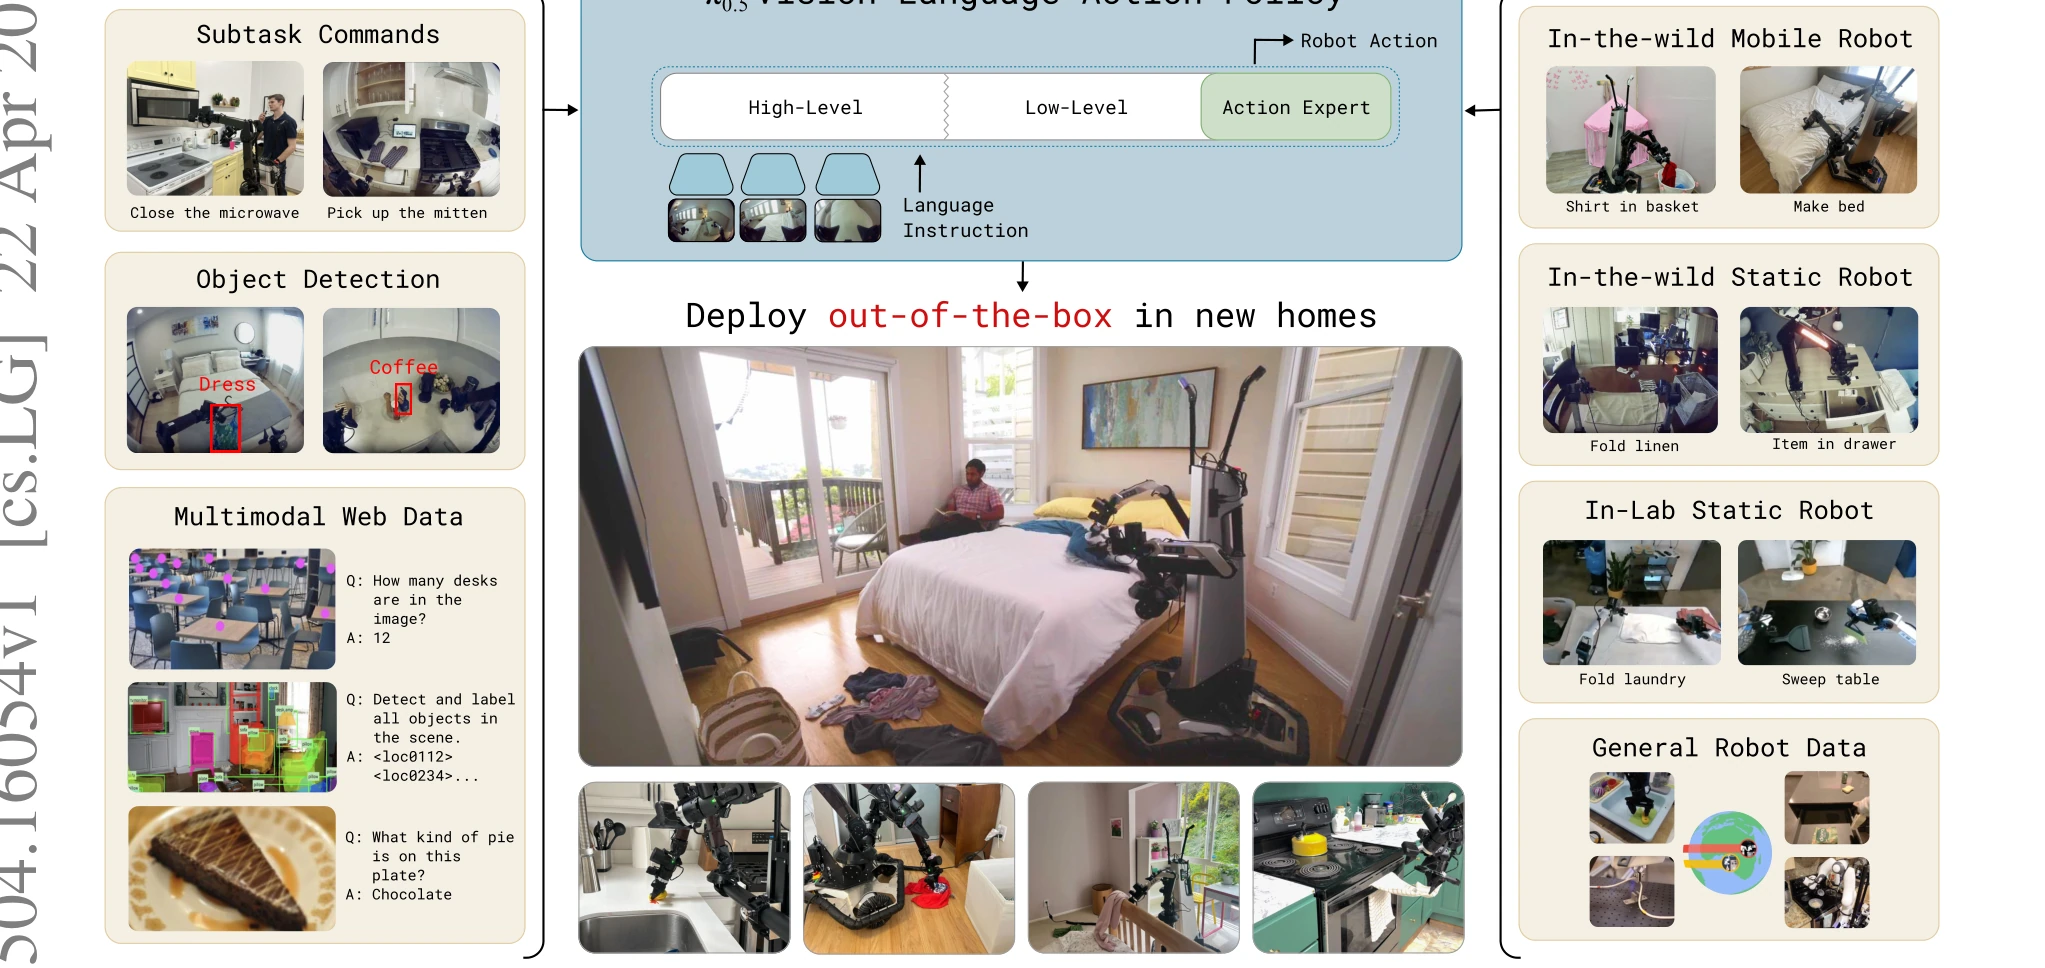
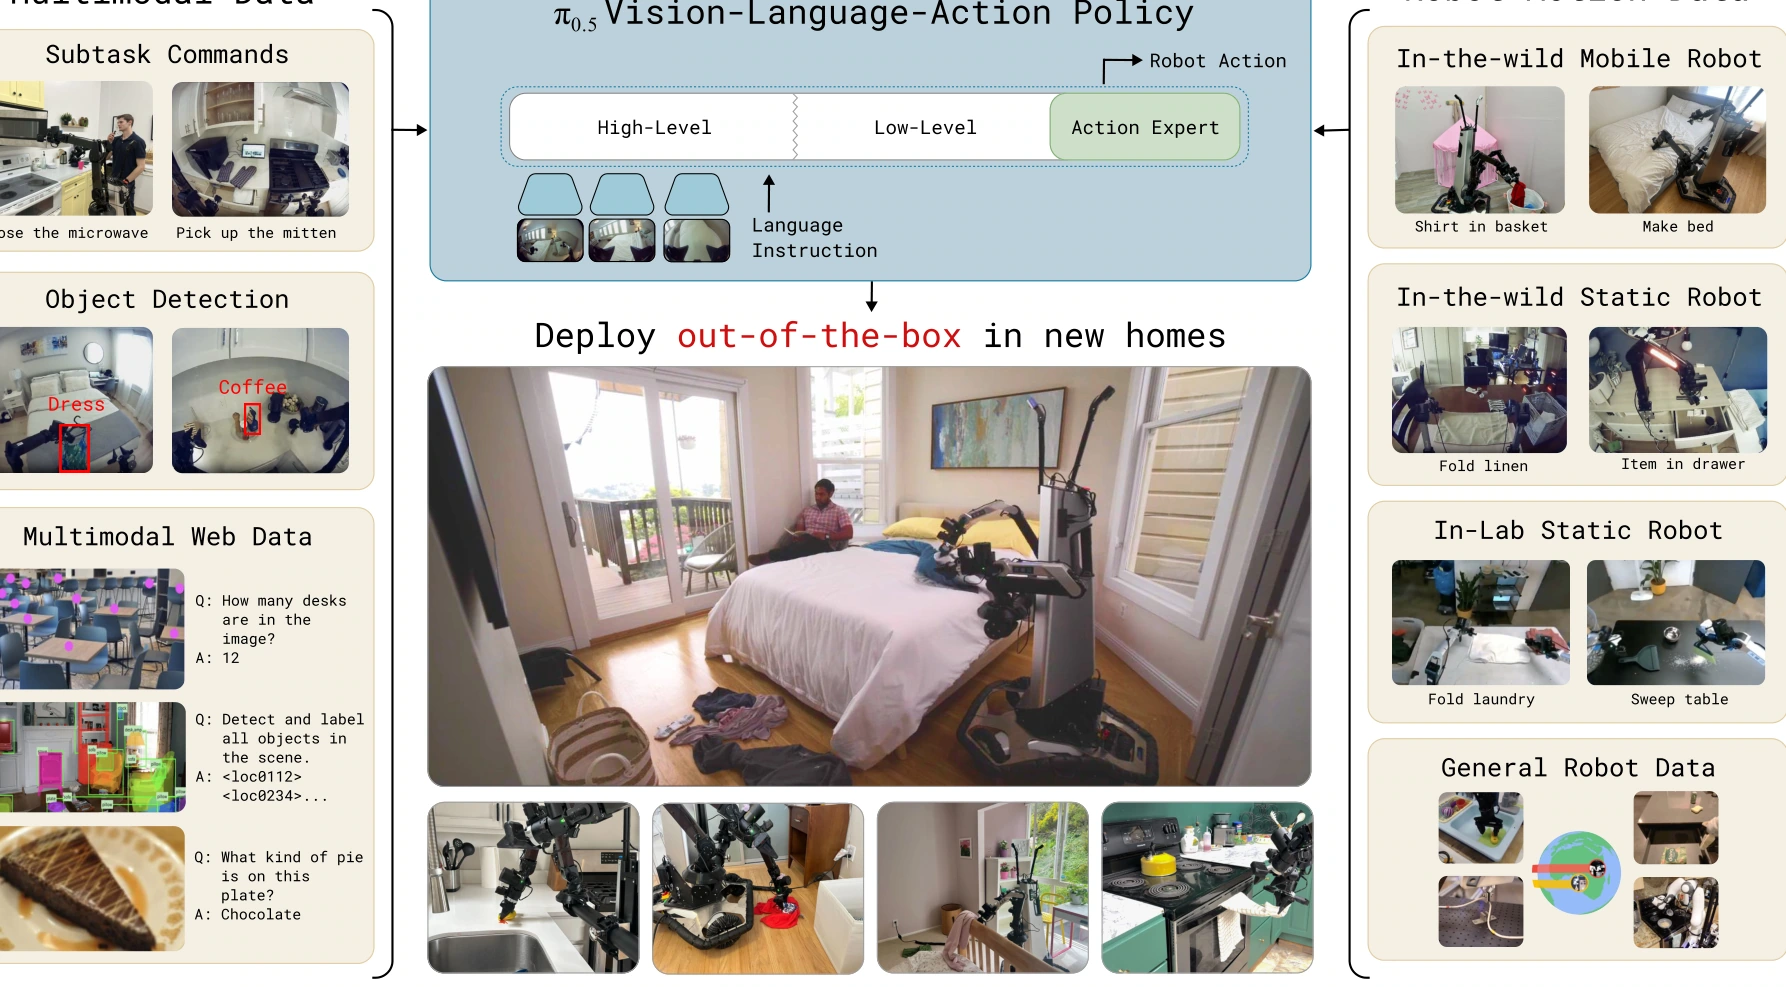
fix(figures): visually reviewed pi-0-5 original PDF figures

diff --git a/docs/figure-crop-manual-review/pi-0-5.md b/docs/figure-crop-manual-review/pi-0-5.md
@@ -1,0 +1,26 @@
+# Visually reviewed figure crops: pi-0-5
+
+Decision source: direct visual inspection of the original PDF pages.
+The script was used **only** to render manually selected coordinates.
+It never automatically expands, trims, or determines figure boundaries.
+
+Source: https://arxiv.org/pdf/2504.16054
+
+| Figure | Source page | Decision | Original coordinates | Approved coordinates | Visual reason |
+| --- | ---: | --- | --- | --- | --- |
+| 1 | 1 | Manually recut | 22, 230.7, 590, 499.4 | 64, 225, 560, 499 | Exclude arXiv margin and retain all task overview panels |
+| 2 | 2 | Inspected; source crop retained | 22, 32.4, 590, 147.4 | 22, 32.4, 590, 147.4 | Existing rectangle contains the whole figure in source preview. |
+| 3 | 4 | Manually recut | 22, 153.8, 590, 268.8 | 50, 68, 567, 269 | Recover model pre-training and post-training task and action labels |
+| 4 | 6 | Inspected; source crop retained | 22, 53, 590, 361.9 | 22, 53, 590, 361.9 | Existing rectangle contains the whole figure in source preview. |
+| 5 | 7 | Inspected; source crop retained | 311, 41, 591, 205.9 | 311, 41, 591, 205.9 | Existing rectangle contains the whole figure in source preview. |
+| 6 | 8 | Inspected; source crop retained | 22, 41, 590, 202.7 | 22, 41, 590, 202.7 | Existing rectangle contains the whole figure in source preview. |
+| 7 | 8 | Manually recut | 22, 270.9, 590, 410.5 | 45, 236, 574, 410 | Recover first evaluation task row plus all home success bar charts |
+| 8 | 9 | Inspected; source crop retained | 21, 41, 301, 209 | 21, 41, 301, 209 | Existing rectangle contains the whole figure in source preview. |
+| 9 | 9 | Inspected; source crop retained | 311, 41, 591, 166.6 | 311, 41, 591, 166.6 | Existing rectangle contains the whole figure in source preview. |
+| 10 | 10 | Inspected; source crop retained | 21, 41, 301, 186.9 | 21, 41, 301, 186.9 | Existing rectangle contains the whole figure in source preview. |
+| 11 | 10 | Inspected; source crop retained | 21, 269.7, 301, 421.2 | 21, 269.7, 301, 421.2 | Existing rectangle contains the whole figure in source preview. |
+| 12 | 10 | Inspected; source crop retained | 311, 41, 591, 176.1 | 311, 41, 591, 176.1 | Existing rectangle contains the whole figure in source preview. |
+| 13 | 11 | Inspected; source crop retained | 21, 41, 301, 246.1 | 21, 41, 301, 246.1 | Existing rectangle contains the whole figure in source preview. |
+
+Total visually audited: 13. Rectangles manually corrected: 3.
+Original figure paths and original/translated captions were preserved.
